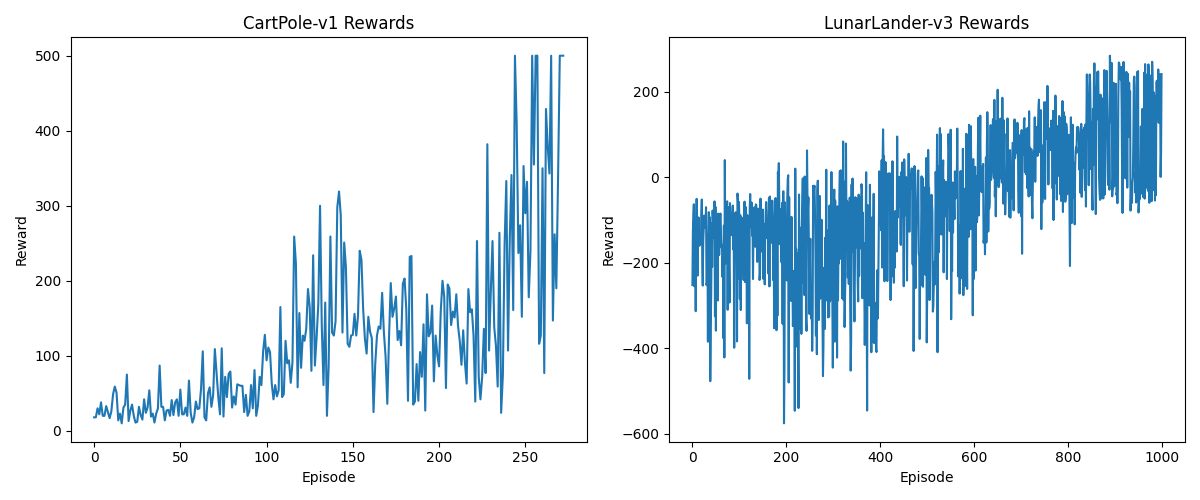
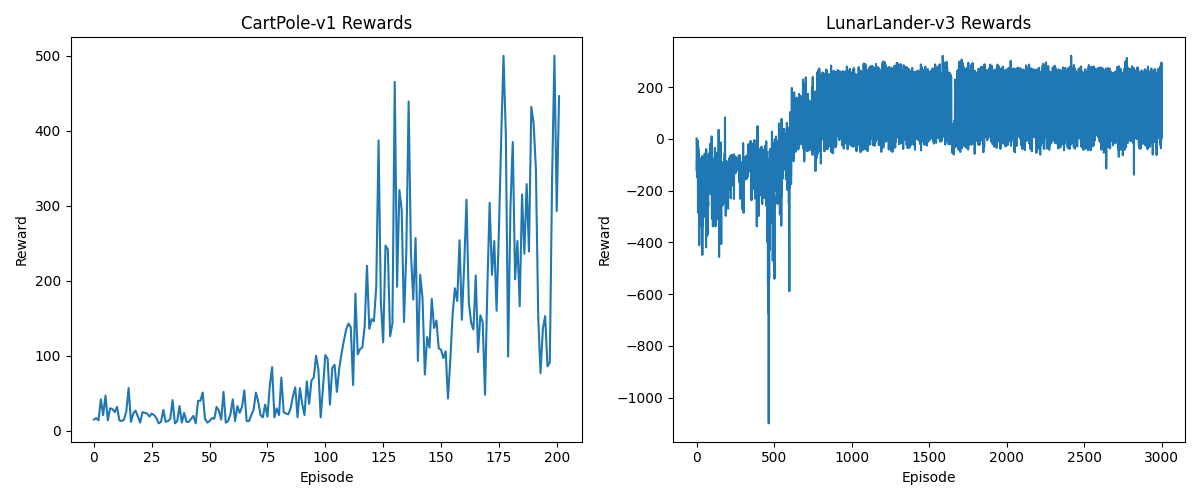
Code Update

diff --git a/train.py b/train.py
@@ -7,9 +7,9 @@ import matplotlib.pyplot as plt
 
 env_configs = {
     'CartPole-v1': {
-        'max_episodes': 600,
+        'max_episodes': 500,
         'max_timesteps': 500,
-        'update_timestep': 512,
+        'update_timestep': 2048,
         'lr': 3e-4,
         'K_epochs': 4,
         'batch_size': 64,
@@ -21,9 +21,9 @@ env_configs = {
         'solved_reward': 195,
     },
     'LunarLander-v3': {
-        'max_episodes': 1000,
+        'max_episodes': 3000,
         'max_timesteps': 1000,
-        'update_timestep': 4096,
+        'update_timestep': 8192,
         'lr': 2e-4,
         'K_epochs': 5,
         'batch_size': 128,
@@ -77,6 +77,12 @@ def train(env_name):
 
             if continuous:
                 action = np.clip(action, env.action_space.low, env.action_space.high)
+                # Keep the stored old log-prob consistent with the action sent to the env.
+                with torch.no_grad():
+                    state_tensor = torch.tensor(state, dtype=torch.float32, device=ppo.device).unsqueeze(0)
+                    action_tensor = torch.tensor(action, dtype=torch.float32, device=ppo.device).unsqueeze(0)
+                    log_prob, _, _ = ppo.policy_old.evaluate(state_tensor, action_tensor)
+                    log_prob = log_prob.item()
 
             next_state, reward, terminated, truncated, _ = env.step(action)
             done = terminated or truncated
@@ -99,11 +105,13 @@ def train(env_name):
                 memory.clear_memory()
                 timestep = 0
 
-            if done:
+            elif done:
                 if len(memory.states) > 0:
                     ppo.update(memory, current_episode=episode, max_episodes=config['max_episodes'])
                     memory.clear_memory()
                     timestep = 0
+
+            if done:
                 break
 
         rewards.append(episode_reward)

diff --git a/ppo.py b/ppo.py
@@ -134,8 +134,9 @@ class PPO:
 
     def update_hyperparams(self, current_episode, max_episodes):
         frac = 1.0 - float(current_episode) / float(max_episodes)
-        lr = self.start_lr * frac
-        self.entropy_coef = self.start_entropy_coef * frac
+        # Keep small floors so annealing does not drive exploration or step size to zero.
+        lr = self.start_lr * max(frac, 0.1)
+        self.entropy_coef = self.start_entropy_coef * max(frac, 0.2)
         for param_group in self.optimizer.param_groups:
             param_group['lr'] = lr
 
@@ -148,7 +149,8 @@ class PPO:
 
         advantages = torch.zeros_like(rewards, device=self.device)
         gae = 0.0
-        next_value = 0.0
+        # Bootstrap non-terminal rollout fragments from the last stored value estimate.
+        next_value = values[-1] if not memory.is_terminals[-1] else values.new_tensor(0.0)
         for step in reversed(range(len(rewards))):
             delta = rewards[step] + self.gamma * next_value * masks[step] - values[step]
             gae = delta + self.gamma * self.gae_lambda * masks[step] * gae
@@ -183,7 +185,9 @@ class PPO:
                 surr2 = torch.clamp(ratios, 1 - self.eps_clip, 1 + self.eps_clip) * advantages_batch
                 policy_loss = -torch.min(surr1, surr2).mean()
 
-                value_clipped = values[batch_idx] + torch.clamp(state_values - values[batch_idx], -self.eps_clip, self.eps_clip)
+                # PPO value clipping must compare against fixed old predictions.
+                value_old = values[batch_idx].detach()
+                value_clipped = value_old + torch.clamp(state_values - value_old, -self.eps_clip, self.eps_clip)
                 value_loss = 0.5 * (F.mse_loss(state_values, returns_batch) + F.mse_loss(value_clipped, returns_batch))
                 entropy_loss = -entropy.mean()
 
